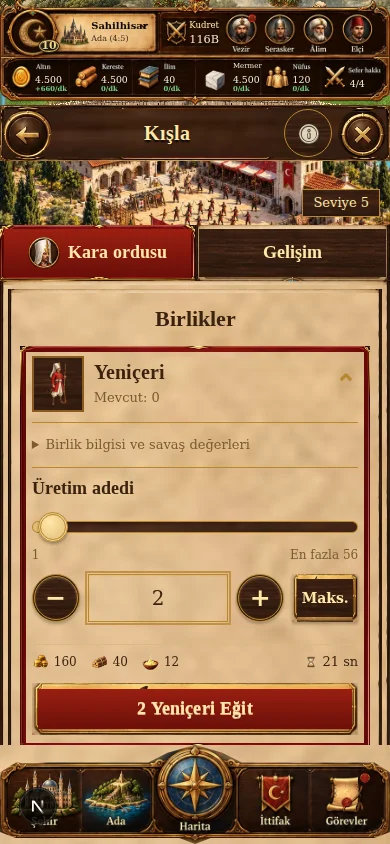
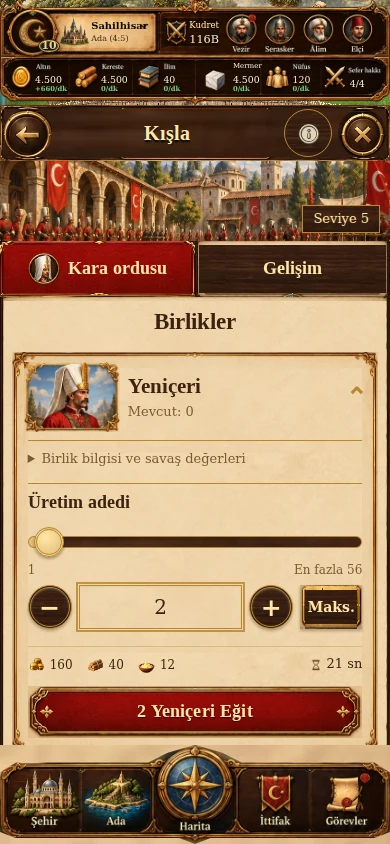
Match barracks to painted reference across training and lower sections

diff --git a/payitaht/app/styles/49-barracks-register.css b/payitaht/app/styles/49-barracks-register.css
@@ -151,3 +151,58 @@
 .game-shell.has-page .bp.bp-of-kisla .barracks-count-controls > button:disabled { opacity: .5; cursor: default; }
 .game-shell.has-page .bp.bp-of-kisla .barracks-quantity > input:disabled { opacity: .5; cursor: default; }
 .game-shell.has-page .bp.bp-of-kisla .barracks-entry.is-locked .barracks-unit-toggle > .unit-figure { filter: saturate(.45); }
+
+/* Painted skin from the approved mockup: live text and controls remain HTML. */
+.game-shell.has-page .bp.bp-of-kisla {
+  --barracks-paper: url('../../public/images/game/ui/barracks/paper.webp');
+  --barracks-frame: url('../../public/images/game/ui/barracks/unit-frame.webp');
+  --barracks-action: url('../../public/images/game/ui/barracks/recruit-button.webp');
+  --barracks-silk: url('../../public/images/game/ui/barracks/red-silk.webp');
+  background: var(--barracks-paper) center / 400px 200px;
+}
+.game-shell.has-page .bp.bp-of-kisla .bp-tabpanel { padding: 8px 3% 18px; background: var(--barracks-paper) center / 400px 200px; }
+.game-shell.has-page .bp.bp-of-kisla .barracks-banner { height: 96px; }
+.game-shell.has-page .bp.bp-of-kisla .bp-tabs > button { min-height: 54px; }
+.game-shell.has-page .bp.bp-of-kisla .bp-tabs > button[aria-selected='true'] { background: var(--barracks-silk) center / cover; }
+.game-shell.has-page .bp.bp-of-kisla .barracks-roster { gap: 9px; }
+.game-shell.has-page .bp.bp-of-kisla .barracks-roster > h2 { margin: 3px 0 7px; font-size: 23px; }
+.game-shell.has-page .bp.bp-of-kisla :is(.barracks-entry,.army-more,.drill-queue,.bf-card,.bp-tabpanel > .bp-box,.bp-dock) {
+  border: 0 solid transparent;
+  border-image: var(--barracks-frame) 40 / 16px / 0 stretch;
+  background: var(--barracks-paper) center / 400px 200px;
+}
+.game-shell.has-page .bp.bp-of-kisla .barracks-entry.is-selected { border-image-source: var(--barracks-frame); }
+.game-shell.has-page .bp.bp-of-kisla .barracks-unit-toggle { grid-template-columns: 96px minmax(0,1fr) 20px; min-height: 85px; gap: 8px; padding: 10px 12px 8px; }
+.game-shell.has-page .bp.bp-of-kisla .barracks-painted-portrait { display: block; width: 96px; height: 70px; object-fit: fill; border: 0; background: none; }
+.game-shell.has-page .bp.bp-of-kisla .barracks-unit-toggle > .unit-figure { width: 96px; height: 70px; }
+.game-shell.has-page .bp.bp-of-kisla .barracks-unit-toggle strong { font-size: 21px; }
+.game-shell.has-page .bp.bp-of-kisla .barracks-training { gap: 6px; padding: 0 16px 16px; }
+.game-shell.has-page .bp.bp-of-kisla .barracks-unit-information > summary { padding: 8px 0; }
+.game-shell.has-page .bp.bp-of-kisla .barracks-count-controls { grid-template-columns: 44px minmax(52px,1fr) 44px 62px; gap: 7px; margin: 3px 0; }
+.game-shell.has-page .bp.bp-of-kisla .barracks-count-controls > button { width: 44px; height: 44px; }
+.game-shell.has-page .bp.bp-of-kisla .barracks-count-controls > button:last-child { width: 62px; }
+.game-shell.has-page .bp.bp-of-kisla .barracks-count-controls > input { height: 44px; }
+.game-shell.has-page .bp.bp-of-kisla :is(.barracks-training .unit-bottom > .gbtn,.bp-upgrade-button) {
+  min-height: 52px;
+  padding: 12px 24px;
+  border: 0 solid transparent;
+  border-image: var(--barracks-action) 28 48 fill / 13px 24px / 0 stretch;
+  background: none;
+  color: var(--c-gold-pale);
+  text-shadow: 0 1px 1px #300;
+}
+.game-shell.has-page .bp.bp-of-kisla .barracks-training .unit-bottom > .gbtn:disabled { filter: saturate(.65); opacity: .78; }
+.game-shell.has-page .bp.bp-of-kisla :is(.army-more,.drill-queue,.bf-card,.bp-tabpanel > .bp-box) { padding: 16px; }
+.game-shell.has-page .bp.bp-of-kisla .bp-box-title { margin: -12px -12px 12px; }
+.game-shell.has-page .bp.bp-of-kisla .drill-job { grid-template-columns: 76px minmax(0,1fr); gap: 8px; }
+.game-shell.has-page .bp.bp-of-kisla .drill-job .barracks-painted-portrait { width: 76px; height: 54px; }
+.game-shell.has-page .bp.bp-of-kisla .drill-bar { grid-column: 1/-1; height: 10px; border: 1px solid var(--c-gold-deep); border-radius: 6px; background: var(--royal-wood) center / cover; overflow: hidden; }
+.game-shell.has-page .bp.bp-of-kisla .drill-bar > i { background: linear-gradient(#e9c46f,#9d691f); }
+.game-shell.has-page .bp.bp-of-kisla .bp-tabpanel > .bp-army { padding: 0; border: 0; border-image: none; background: none; }
+.game-shell.has-page .bp.bp-of-kisla .barracks-banner { height: 80px; }
+.game-shell.has-page .bp.bp-of-kisla .sk-nn { padding: 10px 0; border: 0; border-bottom: 1px solid var(--c-gold-deep); border-radius: 0; background: none; box-shadow: none; }
+.game-shell.has-page .bp.bp-of-kisla .sk-nn-values { align-items: center; }
+.game-shell.has-page .bp.bp-of-kisla .sk-nn-arrow { width: 28px; height: 28px; padding: 0; border: 0; border-radius: 0; background: none; color: var(--c-gold-deep); box-shadow: none; font-size: 24px; }
+.game-shell.has-page .bp.bp-of-kisla :is(.sk-nn-now b,.sk-nn-next b) { font: 700 20px/1.3 'Payitaht Profile Roman',Georgia,serif; }
+.game-shell.has-page .bp.bp-of-kisla .sk-nn-next b { color: var(--c-ink); }
+.game-shell.has-page .bp.bp-of-kisla .sk-nn small { color: var(--c-ink-muted); }

diff --git a/payitaht/components/game/game-panels.tsx b/payitaht/components/game/game-panels.tsx
@@ -12,7 +12,7 @@ import { GameButton } from './game-button'
 import { NowNext } from './stat-kit'
 import { CostDisplay, JobProgress } from './game-widgets'
 import { BUILDINGS, BUILDING_IDS, MAX_LEVEL, RESEARCH, RESEARCH_IDS, RESEARCH_BRANCHES, UNITS, UNIT_IDS, activeJob, cargoCapacity, cityDefense, cost, duration, buildReason, power, rates, recruitReason, researchReason, scientistCount, scientistUpkeepPerMinute, idleWorkers, soldiers, takesPlot, tradeCapacity, unitCost, unitDuration, wallDefense, type BuildingId, type ResearchId, type ResearchBranch, type UnitId, type Game, formatRate } from '@/lib/game/engine'
-import { buildingImage } from '@/lib/asset'
+import { asset, buildingImage } from '@/lib/asset'
 import { capitalCity, colonyPalaceLevel, COLONY_COST, type Empire } from '@/lib/game/empire'
 import { LUXURY_IDS, LUXURY_NAMES, MINE_MAX_LEVEL, luxuryCost, luxuryProduction, merchantLimit, mineCapacity, mineUpgradeCost, unitLuxuryCost, wineServed, type Luxury } from '@/lib/game/engine'
 import { luxuryIcons } from './game-widgets'
@@ -238,6 +238,11 @@ function maxRecruit(game: Game, id: UnitId) {
  * bedeli akce degil, VATANDAS. Oyuncu bir birligi egitmeden once kac kisinin
  * bosta oldugunu gormezse, uretiminin nicin dustugunu anlamaz.
  */
+function BarracksPortrait({ id }: { id: UnitId }) {
+  if (id === 'yeniceri' || id === 'okcu' || id === 'sipahi') return <img className="barracks-painted-portrait" src={asset(`/images/game/ui/barracks/portrait-${id}.webp`)} alt="" width={211} height={156} />
+  return <UnitFigure id={id} size={76} />
+}
+
 export function ArmyPanel({ game, onRecruit, onBuild, home }: { game: Game; onRecruit: (id: UnitId, count: number) => void; onBuild: (id: BuildingId) => void; home?: BuildingId }) {
   const [pick, setPick] = useState<UnitId | null>(null)
   const land = power(game, 'kara')
@@ -272,7 +277,7 @@ export function ArmyPanel({ game, onRecruit, onBuild, home }: { game: Game; onRe
           return <section key={id} className={`barracks-entry${selected ? ' is-selected' : ''}${lock ? ' is-locked' : ''}`}>
             <button type="button" className="barracks-unit-toggle" aria-expanded={selected}
               aria-controls={`barracks-training-${id}`} onClick={() => setPick(id)}>
-              <UnitFigure id={id} size={52} />
+              <BarracksPortrait id={id} />
               <span><strong>{UNITS[id].name}</strong><small>Mevcut: {game.army[id]}{lock ? ` · Kilitli: ${lock}` : ''}</small></span>
               <span className="barracks-unit-chevron" aria-hidden="true">{selected ? '⌃' : '⌄'}</span>
             </button>
@@ -386,7 +391,7 @@ function DrillQueue({ game, home }: { game: Game; home?: BuildingId }) {
       const unit = UNITS[j.id as UnitId]
       const running = j.start <= now
       return <div key={`${j.id}-${j.start}-${i}`} className={`drill-job${running ? ' is-running' : ''}`}>
-        <UnitFigure id={j.id as UnitId} size={30} bare />
+        {home === 'kisla' ? <BarracksPortrait id={j.id as UnitId} /> : <UnitFigure id={j.id as UnitId} size={30} bare />}
         <span><strong>{j.count} {unit.name}</strong><small>{BUILDINGS[unit.home].name} · {running ? `bitiş ${clock(j.end - now)}` : `sırada · ${clock(j.start - now)} sonra başlar`}</small></span>
         {running && <span className="drill-bar"><i style={{ width: `${Math.min(100, (100 * (now - j.start)) / (j.end - j.start))}%` }} /></span>}
       </div>

diff --git a/payitaht/components/game/building-page.tsx b/payitaht/components/game/building-page.tsx
@@ -418,7 +418,7 @@ export function BuildingPage({ game, empire, id, onClose, onBuild, onFlip, onMov
   const buildingScene = (
       <section className={`bp-hero bp-scene${coast ? ' is-coast' : ''}${barracksScene ? ' is-barracks-scene' : ''}`} style={SCENE_STYLE}>
         <span className="bp-scene-back" aria-hidden="true" />
-        {barracksScene ? <img className="barracks-courtyard" src={asset('/images/game/terrain/barracks-courtyard.webp')} alt="Ege kıyısındaki kışlanın sancaklı eğitim avlusu" fetchPriority="high" /> : b.art ? <BuildingArt key={`${shown}-${facing ?? 'default'}`} className="bp-hero-art" id={id} level={shown === 1 ? 1 : shown === 2 ? 4 : 8} facing={facing} alt={`${b.name} görünümü`} /> : <span className="bp-pending"><Hammer /></span>}
+        {barracksScene ? <img className="barracks-courtyard" src={asset('/images/game/ui/barracks/courtyard.webp')} alt="Ege kıyısındaki kışlanın sancaklı eğitim avlusu" fetchPriority="high" /> : b.art ? <BuildingArt key={`${shown}-${facing ?? 'default'}`} className="bp-hero-art" id={id} level={shown === 1 ? 1 : shown === 2 ? 4 : 8} facing={facing} alt={`${b.name} görünümü`} /> : <span className="bp-pending"><Hammer /></span>}
         {b.art && stages.length > 1 && <div className="bp-stages" role="group" aria-label="Seviyeye göre görünüm">
           {stages.map(([st, from, label]) => <button key={st} type="button" aria-pressed={shown === st} onClick={() => setPeek(st === stage ? null : st)}
             className={st === stage ? 'is-current' : level >= from ? 'is-reached' : 'is-locked'} aria-label={`${label} görünümü${st === stage ? ' (şu anki)' : ''}`}>
@@ -444,7 +444,7 @@ export function BuildingPage({ game, empire, id, onClose, onBuild, onFlip, onMov
     footer={id === 'kisla' ? undefined : <UpgradeDock game={game} id={id} onBuild={onBuild} />}>
       {id !== 'kisla' && buildingScene}
       {id === 'kisla' && <figure className="barracks-banner">
-        <img src={asset('/images/game/terrain/barracks-courtyard.webp')} alt="Osmanlı kışlasının sancaklı eğitim avlusu" />
+        <img src={asset('/images/game/ui/barracks/courtyard.webp')} alt="Osmanlı kışlasının sancaklı eğitim avlusu" />
         <figcaption>Seviye {level}</figcaption>
       </figure>}
       {razing && <DemolishConfirm game={game} id={id} onCommand={onCommand} onClose={() => setRazing(false)} />}

diff --git a/payitaht/lib/game/changelog.ts b/payitaht/lib/game/changelog.ts
@@ -5,6 +5,7 @@
 export type Release = { version: string; date: string; title: string; notes: string[] }
 
 export const CHANGELOG: Release[] = [
+  { version: '0.68.0', date: '8 Ekim 2026', title: 'Kışlada çizimin gerçek malzemeleri', notes: ['Onaylı çizimden yakın plan asker portreleri, işlemeli pirinç çerçeveler, temiz parşömen ve kırmızı kumaş eğitim düğmesi.', 'Gelişim, eğitim sırası ve ordu bilgileri aynı görsel dilde; dikey birlik listesi ve yatay adet barı korunur.'] },
   { version: '0.67.0', date: '8 Ekim 2026', title: 'Kışlada dikey birlik defteri', notes: ['Birlikler alt alta açılan satırlarda; eğitim adedi sağa sola sürüklenen bar, sayı girişi ve yuvarlak kontrollerle seçilir.', 'Onaylanan Osmanlı çerçeveleri, ceviz–pirinç düğmeler ve kırmızı eğitim eylemi kullanılır. Kara ordusu sekmesinde yeniçeri simgesi vardır; Gelişim, HUD ve oyun hesapları korunur.'] },
   { version: '0.66.1', date: '8 Ekim 2026', title: 'Kışlada eğitim alanına yer açıldı', notes: ['Sabit yükseltme kutusu Gelişim sekmesine taşındı; avlu isteğe bağlı açılır. Kışla doğrudan birlik seçimi ve eğitim alanıyla açılır.', 'Tekrarlanan başlık ve bilgiler kaldırıldı, sekmeler kaydırırken erişilebilir kaldı. Oyun kuralları ve üst/alt bar korunur.'] },
   { version: '0.66.0', date: '8 Ekim 2026', title: 'Kışla eğitim defteri', notes: ['Kışlanın Kara ordusu ve Gelişim bölümleri ortak ceviz, altın ve parşömen diliyle yenilendi.', 'Birlik seçimi, eğitim kartı, sıra, ordu sicili ve yükseltme gereksinimleri daha okunaklı hale getirildi. Eğitim, maliyet, inşaat ve HUD mekanikleri korunur.'] },

diff --git a/payitaht/public/sw.js b/payitaht/public/sw.js
@@ -1,8 +1,16 @@
-const CACHE = 'payitaht-shell-v76'
+const CACHE = 'payitaht-shell-v77'
 const BASE = new URL(self.registration.scope).pathname.replace(/\/$/, '')
 const p = path => `${BASE}${path.startsWith('/') ? path : `/${path}`}`
 const ASSETS = [
   p('/images/game/ui/barracks/army-medallion.webp'),
+  p('/images/game/ui/barracks/paper.webp'),
+  p('/images/game/ui/barracks/unit-frame.webp'),
+  p('/images/game/ui/barracks/portrait-yeniceri.webp'),
+  p('/images/game/ui/barracks/portrait-okcu.webp'),
+  p('/images/game/ui/barracks/portrait-sipahi.webp'),
+  p('/images/game/ui/barracks/recruit-button.webp'),
+  p('/images/game/ui/barracks/courtyard.webp'),
+  p('/images/game/ui/barracks/red-silk.webp'),
   p('/fonts/tinos-latin-700-normal.woff2'),
   p('/fonts/tinos-latin-ext-700-normal.woff2'),
   p('/images/game/ui/profile-v2/header.webp'),

diff --git a/payitaht/lib/pwa-cache.test.ts b/payitaht/lib/pwa-cache.test.ts
@@ -11,7 +11,7 @@ test('service worker Pages base path altında kaydolur', () => {
 
 test('service worker cache sürümü ve asset yenileme stratejisi güncel', () => {
   const sw = readFileSync('public/sw.js', 'utf8')
-  assert.match(sw, /payitaht-shell-v76/)
+  assert.match(sw, /payitaht-shell-v77/)
   assert.match(sw, /self\.registration\.scope/)
   assert.match(sw, /url\.pathname\.startsWith\(gameImages\)/)
   // Yalnızca JavaScript sözdizimini derle; self çağrıları çalıştırılmaz.

diff --git a/payitaht/docs/BARRACKS-VALIDATION.md b/payitaht/docs/BARRACKS-VALIDATION.md
@@ -29,3 +29,11 @@ Güncel kanıtlar `docs/mockups/barracks-roomy-*.webp` içinde. 360/390/430/864 
 - Gerçek ekranlar: `mockups/barracks-approved-live-{360,390,430}.webp`, `mockups/barracks-approved-development.webp`. Onaylı tasarım `mockups/approved-barracks-vertical-slider.webp`; aynı tasarımın referansıdır, canlı screenshot olarak sunulmaz.
 - Genel `tools/layout-qa.cjs` de çalıştırıldı fakat tüm uygulama için yeşil değildir: değişmeyen HUD danışmanı/dar yapı önizlemeleri ve eski sabit yükseltme beklentileri hata verir. Kışla için bildirdiği dok hatası, Gelişim sekmesindeki gizli yükseltmenin eğitim ekranında görünmesini bekleyen eski kontroldür. Yeni kışlanın kendi taramasında hata yoktur; genel HUD bu işte değiştirilmedi.
 - Mockup'taki örnek sayılar veya sıra iptal düğmesi eklenmedi. Ekonomi, birlik şartları, eğitim süresi, araştırma/garnizon, kayıt biçimi ve kabul edilmiş HUD kaynakları değişmedi.
+
+## 0.68.0 — çizimin gerçek parçaları
+
+0.67.0 görsel benzerliği kullanıcı tarafından reddedildi. Yeni metinsiz atlas, yakın plan üç portre, temiz parşömen, işlemeli pirinç dokuz parçalı kart çerçevesi ve kırmızı kumaş eğitim düğmesi kullanıldı. Bina ve HUD oyun kuralları korunur; mevcut alt menünün beş sekmesine dokunulmadı.
+
+328 test geçti. TypeScript, ESLint, CSS/unused CSS, V2 kriterleri ve Pages için statik üretim geçti. Sentetik kayıtla 360/390/430×844 ilk eğitim, 390×844 eğitim sırası, açılan ordu durumu/savaş meydanı, Gelişim ve yükseltme kontrolleri: altı layout kategorisi boş. Adet barı 1→17; sayı girişinden 2 Yeniçeri eğitim emri gerçek sıraya eklendi. Kışla kapsamı için kontrol, bütün uygulama için yeni bir yeşil tarama iddiası değildir.
+
+Güncel gerçek ekranlar `mockups/barracks-approved-live-{360,390,430}.webp`, `mockups/barracks-approved-development.webp`, `mockups/barracks-painted-{queue,army,upgrade}.webp`. Referans çizimle aynı veri veya boy oranı iddia edilmez: telefon ekranında gerçek HUD, tarayıcı alanı ve oyun verileri kullanılır. Eski sürümün yalnız renklerle benzerlik iddiası geçersizdir.

diff --git a/payitaht/docs/BARRACKS-DESIGN-MEMORY.md b/payitaht/docs/BARRACKS-DESIGN-MEMORY.md
@@ -1,3 +1,11 @@
+## Son kullanıcı düzeltmesi — 0.68.0 / SW77
+
+0.67.0 kullanıcı tarafından çizime benzemediği için reddedildi. Renklerin benzemesi yeterli değildir: yakın plan portre, işlemeli çerçeve, temiz açık parşömen ve kırmızı kumaş eylem doğrudan görsel malzemeyle uygulanır. Onaylı çizim hâlâ `mockups/approved-barracks-vertical-slider.webp`.
+
+`mockups/barracks-clean-skin.webp` bunun metinsiz uygulama atlasıdır; koordinatlar `barracks-skin-atlas.json`. Çerçevenin üst/sol kenarları portre içermeyen alt/sağ kenarlardan yansıtılır; içi doldurulmaz. Yeniçeri, okçu ve sipahi yakın plan portreleri ayrı assettir. Diğer birliklerin mevcut figürleri korunur. Tüm yazı, maliyet, süre, limit ve eğitim ilerlemesi gerçek HTML/oyun verisidir.
+
+Birlikler alt alta; sadece üretim adedi barı sağa sola sürüklenir. Gelişim, seviye etkisi/maliyet tablosu, yükseltme, birlik bilgisi, eğitim sırası, ordu durumu ve savaş meydanı aynı malzemeleri kullanır. Ana alt menünün Şehir/ Ada/Harita/İttifak/Görevler sekmeleri korunur; kabul edilmiş HUD dosyaları değiştirilmez. Bu görsel giydirme oyun kurallarını değiştirmez.
+
 # Güncel onay — dikey birlikler ve yatay adet barı, 8 Ekim 2026
 
 **0.67.0 / SW76.** Adem bu görseli onayladı ve uygulamaya geçirme/kalıcı kaydetme talimatı verdi: `mockups/approved-barracks-vertical-slider.webp`. Görseli açmadan sonraki değişikliği yapma. Aşağıdaki eski 0.66.1 galeri ve altın eğitim butonu tarifleri bu onayla değiştirilmiştir.

diff --git a/payitaht/AGENTS.md b/payitaht/AGENTS.md
@@ -41,3 +41,7 @@ Kullanıcı 0.66.0 kışla düzenini dar buldu: eğitim ekranında sabit yüksel
 ## Kışla için en son onay (8 Ekim, 0.67.0 / SW76)
 
 `docs/BARRACKS-DESIGN-MEMORY.md` başındaki yeni onay ve `docs/mockups/approved-barracks-vertical-slider.webp` geçerlidir. Birlikler alt alta, seçili satırda eğitim; yalnız adet barı yatay sürüklenir. Yuvarlak ceviz/pirinç kontroller, işlemeli ortak çerçeveler, kırmızı askerî eğitim düğmesi ve yeniçeri/börk sekme simgesi. Eski yatay galeri tarifine dönme. Gelişim ve HUD korunur.
+
+## Kışlanın görsel düzeltmesi — 0.68.0 / SW77
+
+Kullanıcı 0.67.0 ekranını çizime benzemediği için reddetti. `docs/BARRACKS-DESIGN-MEMORY.md` başındaki 0.68.0 düzeltmesi geçerlidir: gerçek portreler ve atlas çerçeveleri, bütün alt bölümler, mevcut alt HUD. Sadece renk benzerliğine dayanarak tasarıma uygunluk iddia etme.
